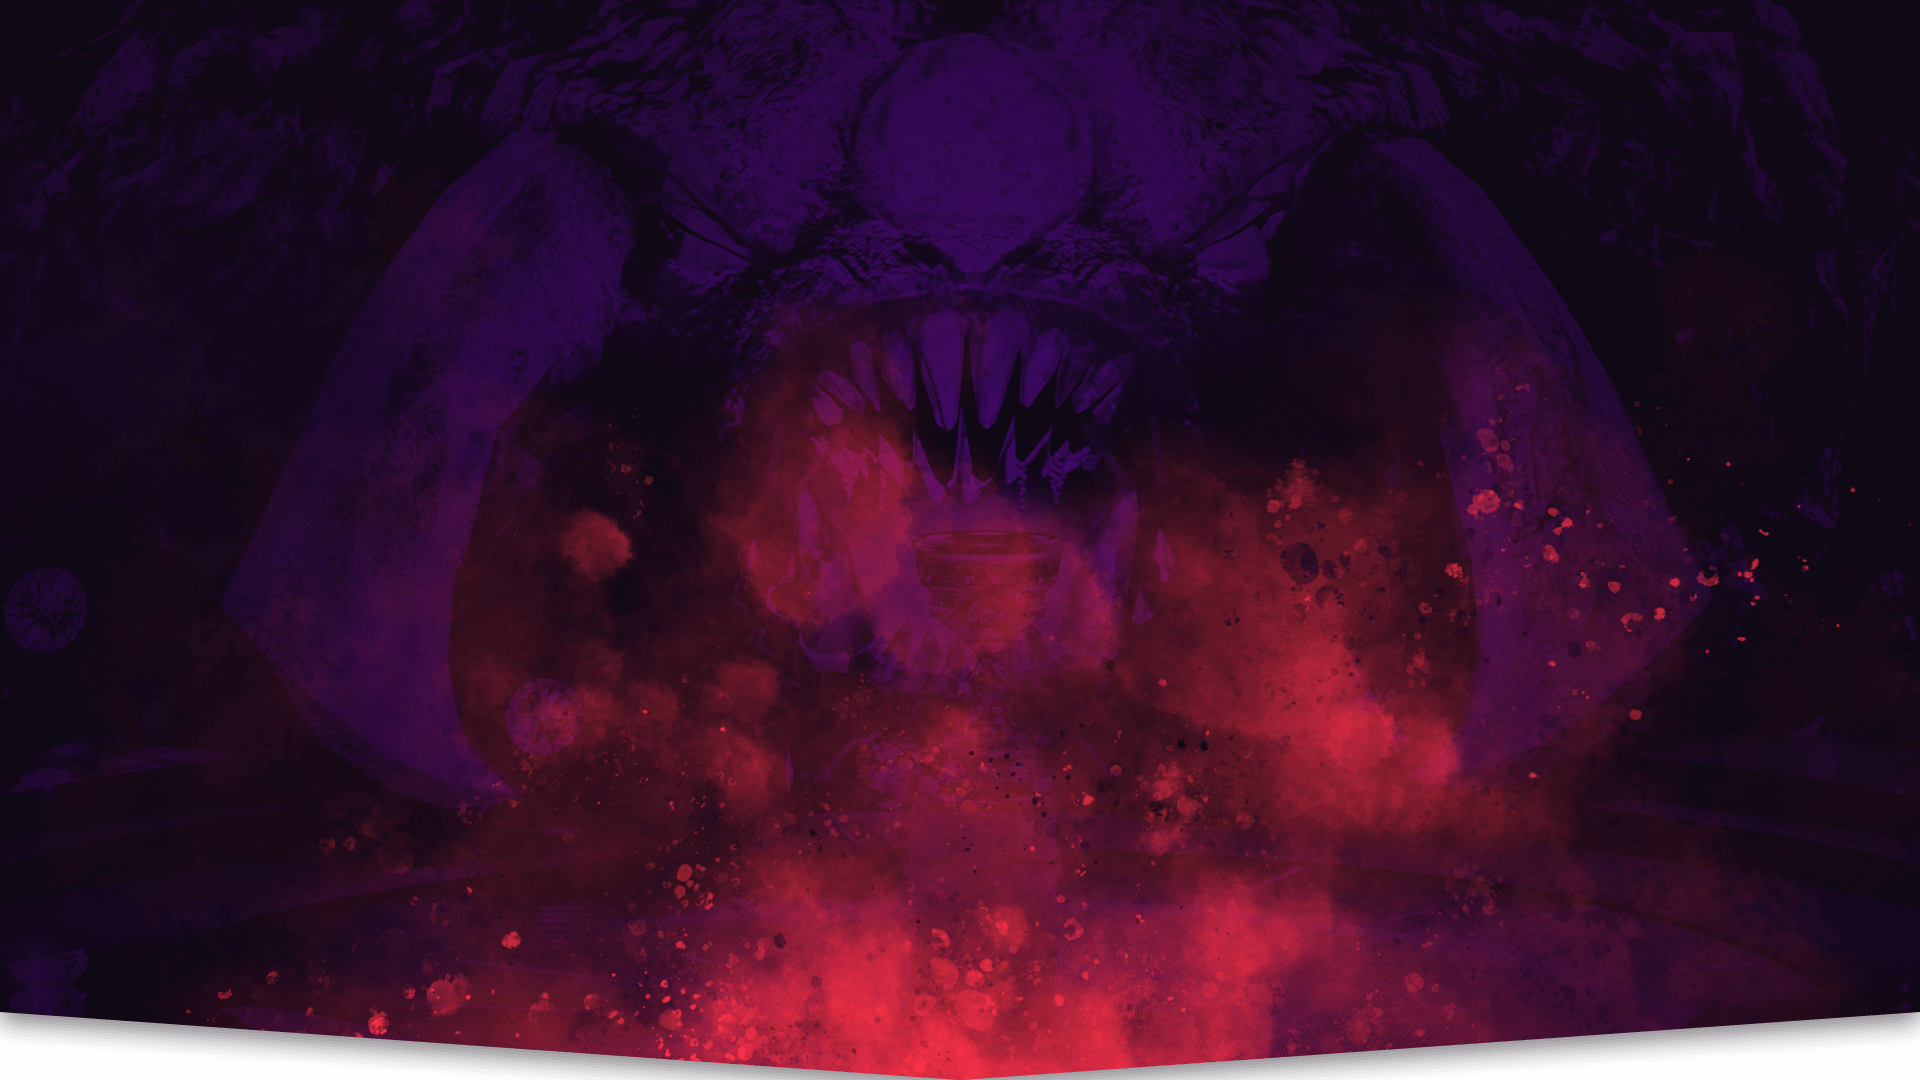
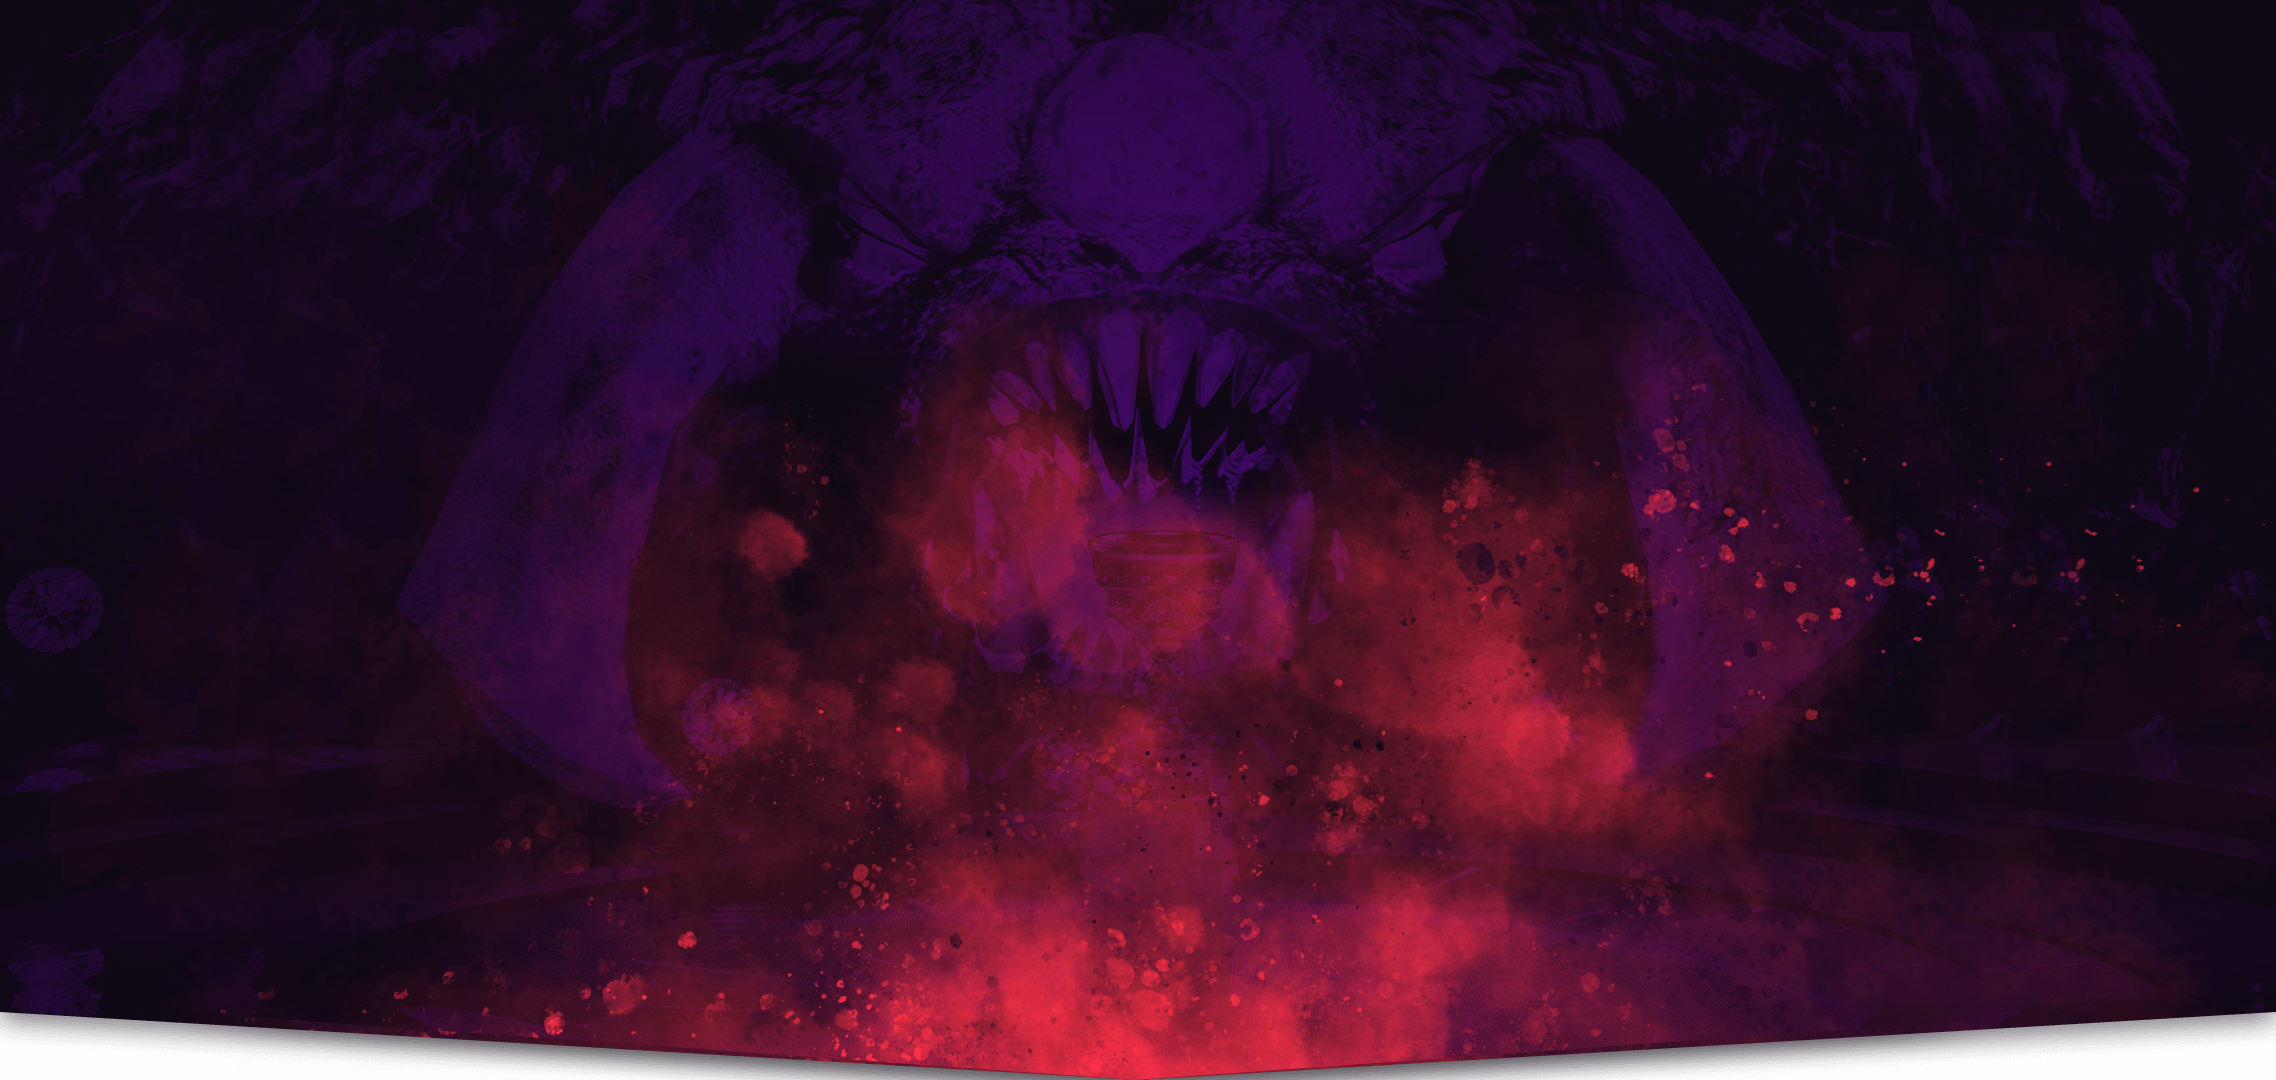
check

diff --git a/src/routes/homePage.module.css b/src/routes/homePage.module.css
@@ -1,7 +1,51 @@
 .hero {
     background-image: url(../assets/hero.png);
     background-repeat: no-repeat;
-    background-position: center 0;
+    background-position: center bottom;
     background-size: cover;
     height: 100vh;
+}
+
+.leftVertical {
+    position: absolute;
+    top: 50%;
+    letter-spacing: 0.2rem;
+    display: flex;
+    align-items: center;
+    rotate: -90deg;
+    left: 0;
+    transform: translateY(-5rem);
+}
+
+.leftVertical img {
+    width: 1rem;
+    margin-left: 1.5rem;
+    filter: invert();
+    transition: .3s;
+    rotate: 90deg;
+}
+
+.leftVertical img:hover {
+    scale: 1.5;
+}
+
+.rightVertical {
+    position: absolute;
+    top: 50%;
+    letter-spacing: 0.2rem;
+    display: flex;
+    align-items: center;
+    rotate: -90deg;
+    right: 0;
+    transform: translateY(4.5rem);
+}
+
+@media (max-width: 850px) {
+    .leftVertical {
+        transform: translateY(-6rem);
+    }
+
+    .rightVertical {
+        transform: translateY(5.8rem);
+    }
 }

diff --git a/src/routes/homePage.js b/src/routes/homePage.js
@@ -1,11 +1,22 @@
 import classes from "./homePage.module.css";
-import heroImg from "../assets/hero.png"
+import iconIg from "../assets/instagram.svg";
+import iconTw from "../assets/twitter.svg";
+import iconYt from "../assets/youtube.svg";
 
 export default function HomePage() {
     return (
         <div className={classes.homePage}>
-            <section className={classes.hero}>
+            <section id="herosection" className={classes.hero}>
+                <div className={classes.leftVertical}>
+                    <div>FOLLOW US ON: </div>
+                    <a href="#"><img src={iconIg} alt="social" /></a>
+                    <a href="#"><img src={iconTw} alt="social" /></a>
+                    <a href="#"><img src={iconYt} alt="social" /></a>
+                </div>
 
+                <div className={classes.rightVertical}>
+                    IIIT BHUBANESWAR, ODISHA
+                </div>
             </section>
         </div>
     );

diff --git a/public/index.html b/public/index.html
@@ -34,7 +34,7 @@
 
     <style>
         #loader_block {
-            background: radial-gradient(circle farthest-side, #241632, #170f1e);
+            background: radial-gradient(circle farthest-side, #370842, #13081B);
             background-repeat: no-repeat;
             background-position: center;
             overflow: hidden;

diff --git a/src/index.css b/src/index.css
@@ -1,4 +1,4 @@
-@import url('https://fonts.googleapis.com/css2?family=Rajdhani:wght@400;700&display=swap');
+@import url('https://fonts.googleapis.com/css2?family=Rajdhani:wght@500;700&display=swap');
 
 body {
     margin: 0;

diff --git a/src/components/navbar/index.module.css b/src/components/navbar/index.module.css
@@ -59,6 +59,7 @@
     background: rgba(26, 15, 34, .85);
     font-weight: bold;
     font-size: 4rem;
+    z-index: 5;
 }
 
 @keyframes overlayItem {
